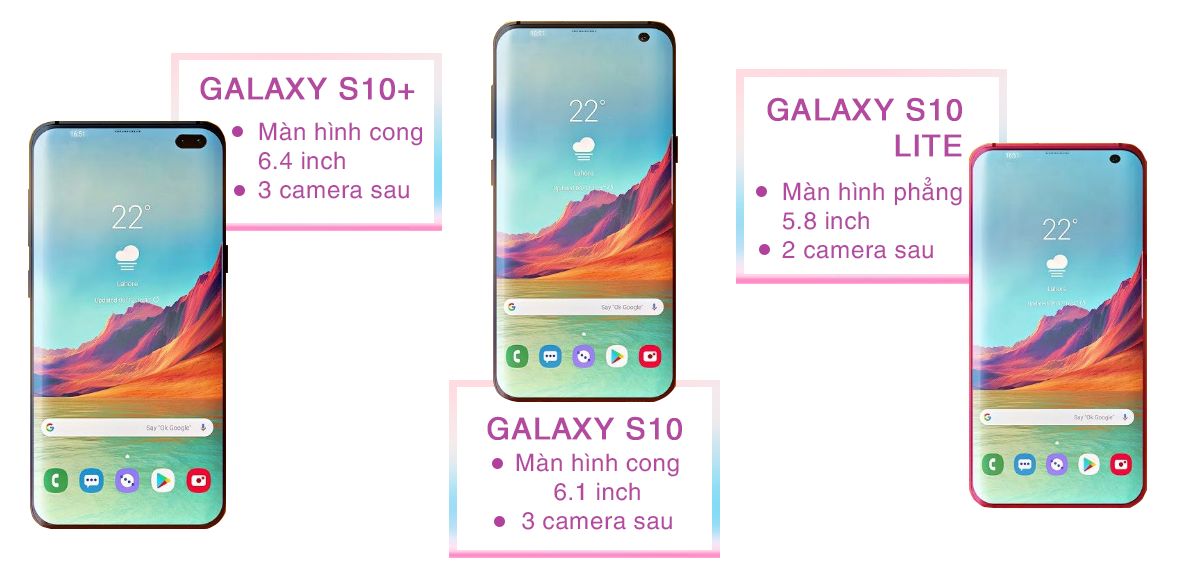
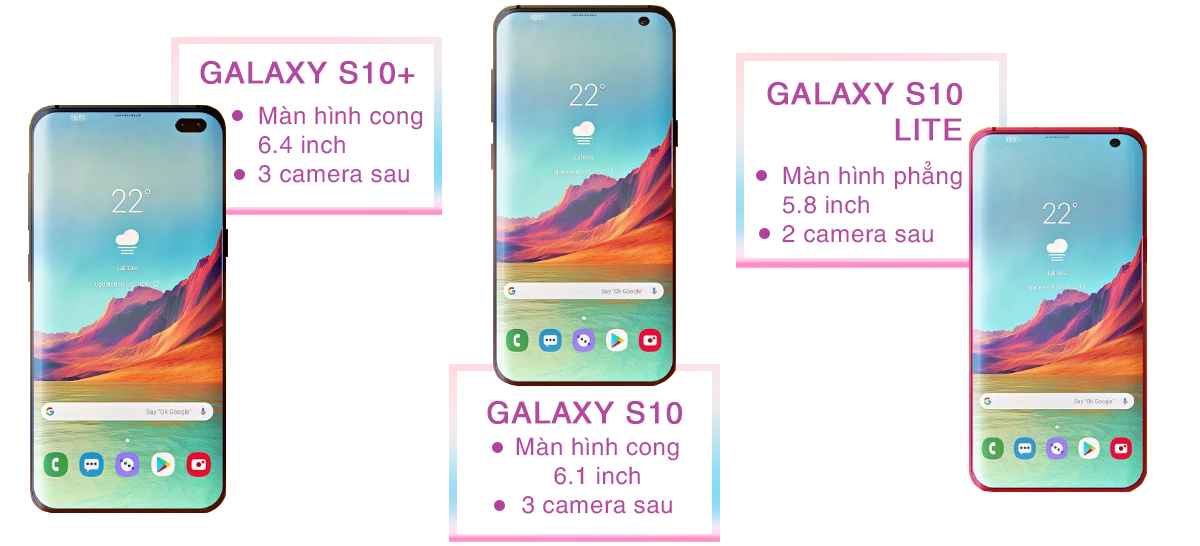
commit 2

diff --git a/DESKTOP/index.html b/DESKTOP/index.html
@@ -48,7 +48,7 @@
 				</div>		
 			</div>
 
-			<p>Nếu thường xem tin tức về Galaxy S10 có lẽ bạn cũng đã biết rằng Samsung sẽ giới thiệu 3 phiên bản là Galaxy S10, Galaxy S10 Plus(Galaxy S10+) và Galaxy S10 Lite (Galaxy S10E) tại sự kiện Unpacked 2019 sắp tới.</p><br>
+			<p>Nếu thường xem tin tức về Galaxy S10 có lẽ bạn cũng đã biết rằng Samsung sẽ giới thiệu 3 phiên bản là Galaxy S10, Galaxy S10 Plus (Galaxy S10+) và Galaxy S10 Lite (Galaxy S10E) tại sự kiện Unpacked 2019 sắp tới.</p><br>
 			<p>Trong đó, Galaxy S10 (được gọi là phiên bản tiêu chuẩn) sẽ có màn hình cong 6.1 inch, bản cao cấp nhất Galaxy S10 Plus cũng có màn hình cong 6.4 ich, riêng sản phẩm giá rẻ hơn Galaxy S10 Lite sẽ có màn hình phẳng 5.8 inch. Điểm chung của chúng là màn hình đều có tỉ lệ 19:9 thay vì 18.5:9 như Galaxy S9.</p>
 		</div>
 	</div>
@@ -57,10 +57,11 @@
 	</div>
 	<div class="block-content">
 		<div class="container">
-			<p>Được biết, cả 3 phiên bản sẽ được giữ lại cổng tai nghe 3.5 mm, cùng chạy hệ điều hành Android 9 Pie khi ra mắt, sử dụng con chip Snapdragon 855 hoặc Exynos 9820 mới nhất (tùy thuộc vào từng thị trường), RAM sẽ đạt từ mức 8 - 12 GB, bộ nhớ lưu trữ là từ 128 - 512 GB mức RAM/ROM cao nhất có thể chỉ xuất hiện trên biến thể "Plus").</p><br>
-			<p>Hiện tại, có rất nhiều nguồn tin cho biết, ngoại trừ Galaxy S10 Lite sở hữu camera kép thì 2 sản phẩm còn lại đều có hệ thống 3 camera ở mặt sau. Trong khi đó ở mặt trước, mẫu Galaxy S10 Plus sẽ có 2 lỗ khoét ở góc bên phải màn hình cho camera selfie còn S10 và S10 Lite chỉ có 1.</p>
+			<p>Được biết, cả 3 phiên bản sẽ được giữ lại cổng tai nghe 3.5 mm, cùng chạy hệ điều hành Android 9 Pie khi ra mắt, sử dụng con chip Snapdragon 855 hoặc Exynos 9820 mới nhất (tùy thuộc vào từng thị trường), RAM sẽ đạt từ mức 8 - 12 GB, bộ nhớ lưu trữ là từ 128 - 512 GB (mức RAM/ROM cao nhất có thể chỉ xuất hiện trên biến thể "Plus").</p>
+
 			<div class="row">
 				<div class="column">
+					<p>Hiện tại, có rất nhiều nguồn tin cho biết, ngoại trừ Galaxy S10 Lite sở hữu camera kép thì 2 sản phẩm còn lại đều có hệ thống 3 camera ở mặt sau. Trong khi đó ở mặt trước, mẫu Galaxy S10 Plus sẽ có 2 lỗ khoét ở góc bên phải màn hình cho camera selfie còn S10 và S10 Lite chỉ có 1.</p><br>
 					<p>Về màu sắc, những rò rỉ mới nhất cho thấy năm nay Samsung sẽ mang khá nhiều phối màu mới cho dòng Galaxy S 2019 như Đen, Xám, Xanh lam, Đỏ, Xanh lục và Vàng,...</p><br>
 					<p>Bên cạnh 3 phiên bản kể trên thì người ta còn tin rằng, Samsung còn một mẫu Galaxy S10 thứ tư - có thể được gọi là Galaxy S10 X với màn hình lớn đến 6.7 inch, tích hợp hệ thống 6 camera ở mặt sau (bao gồm một cảm biến ToF dùng để đo khoảng cách từ máy đến vật thể, phục vụ cho chụp ảnh 3D hoặc tương tác thực tế tăng cường AR) cũng như hỗ trợ mạng 5G.</p>
 				</div>
@@ -80,10 +81,11 @@
 				<div class="column">
 					<p>Cho đến thời điểm này, có khá nhiều tin rò rỉ và tranh cãi xoay quanh hệ thống camera của các mẫu Galaxy S10.</p><br>
 					<p>Có nguồn tin nói rằng, Galaxy S10 Lite có camera kép, Galaxy S10 & S10 Plus cùng có 3 camera trong khi cũng có nguồn tin khẳng định chỉ trừ mẫu cao cấp nhất có 3 camera mặt sau, 2 sản phẩm còn lại đều chỉ có camera kép.</p><br>
-					<p>Với nguồn tin thứ nhất, họ cho biết mẫu S10 & S10 Lite sẽ có hệ thống camera với ống kính siêu rộng 16 MP f/1.9 + ống kính thường 12 MP có khả năng thay đổi khẩu độ.</p>
+					<p>Với nguồn tin thứ nhất, họ cho biết mẫu S10 & S10 Lite sẽ có hệ thống camera với ống kính siêu rộng 16 MP f/1.9 + ống kính thường 12 MP có khả năng thay đổi khẩu độ.</p><br>
+					<p>Trong khi đó nguồn tin thứ 2 khẳng định, camera trên S10 và S10 Plus sẽ là một hệ thống bao gồm cảm biến 12 MP, khẩu độ thay đổi từ f/1.5 - f/2.4 + ống kính góc rộng 123 độ, 16 MP, f/1.9 kết hợp cùng ống kính tele 13MP với khẩu độ f/2.4.</p>
 				</div>
 			</div>
-			<p>Trong khi đó nguồn tin thứ 2 khẳng định, camera trên S10 và S10 Plus sẽ là một hệ thống bao gồm cảm biến 12 MP, khẩu độ thay đổi từ f/1.5 - f/2.4 + ống kính góc rộng 123 độ,16 MP, f/1.9 kết hợp cùng ống kính tele 13MP với khẩu độ f/2.4.</p><br>
+
 			<p>Ở phía trước, nhiều hình ảnh render đều cho chúng ta thấy Galaxy S10 & S10 Lite đều có 1 camera nằm ở phía trên bên phải màn hình còn S10 Plus sẽ có camera kép.</p>
 			<p>Nhìn chung, vấn đề bao nhiêu camera cũng không quan trọng bằng việc tối ưu thuật toán máy ảnh. Hy vọng Samsung sẽ làm tốt khâu này để giúp siêu phẩm 2019 của mình có sức cạnh tranh tốt hơn.</p>
 			<div class="outline">
@@ -102,7 +104,8 @@
 			<div class="row">
 				<div class="column">
 					<p>Tuy nhiên, cũng có nguồn tin nói rằng Galaxy S10 Lite sẽ được trang bị cảm biến vân tay nằm ở nút nguồn chứ không được nhúng trên màn hình như 2 model cao cấp còn lại.</p><br>
-					<p>Và do có thiết kế gần như tràn viền 100%, phải khoét lỗ cho camera  selfie nên người ta tin rằng, Samsung sẽ loại bỏ tính năng quét mống mắt trên cả 3 mẫu Galaxy S10 và thay vào đó là cải tiến khả năng quét khuôn mặt 3D, sao cho nó tốt như đối thủ Apple iPhone.</p>
+					<p>Và do có thiết kế gần như tràn viền 100%, phải khoét lỗ cho camera  selfie nên người ta tin rằng, Samsung sẽ loại bỏ tính năng quét mống mắt trên cả 3 mẫu Galaxy S10 và thay vào đó là cải tiến khả năng quét khuôn mặt 3D, sao cho nó tốt như đối thủ Apple iPhone.</p><br>
+					<p>Bên cạnh đó, nhiều nguồn tin cũng khẳng định Samsung sẽ tích hợp công nghệ phát âm thanh thông qua màn hình (Sound on Display, kiêm cả 2 nhiệm vụ loa ngoài và loa đàm thoại) dành cho cả 3 model mới nhất.</p>
 				</div>
 				<div class="column">
 
@@ -110,13 +113,13 @@
 
 				</div>
 			</div>
-			<p>Bên cạnh đó, nhiều nguồn tin cũng khẳng định Samsung sẽ tích hợp công nghệ phát âm thanh thông qua màn hình (Sound on Display, kiêm cả 2 nhiệm vụ loa ngoài và loa đàm thoại) dành cho cả 3 model mới nhất.</p>
+
 			<div class="outline">
 				<div data-aos="fade-right" ata-aos-easing="linear" data-aos-delay="100">
 					<img src="images/outline05.png">	
 				</div>		
 			</div>
-			<p>Có một điều chắc chắn là Galaxy S10 sẽ được giới thiệu vào ngày 20/2, trước khi triển lãm di động toàn cầu MWC 2019 khai mạc. Và sau đó, thiết bị rất có thể được lên kệ vào ngày 8/3 tại Hàn Quốc, Ý và nhiều nước khác. Như vậy có thể xem đây là lên kệ toàn cầu của Galaxy S10.</p><br>
+			<p>Có một điều chắc chắn là Galaxy S10 sẽ được giới thiệu vào ngày 20/2, trước khi triển lãm di động toàn cầu MWC 2019 khai mạc. Và sau đó, thiết bị rất có thể được lên kệ vào ngày 8/3 tại Hàn Quốc, Ý và nhiều nước khác. Như vậy có thể xem đây là thời điểm lên kệ toàn cầu của Galaxy S10</p><br>
 			<p>Tuy nhiên, các nguồn tin cũng lưu ý: Đây chỉ là ngày bán ra của 3 mẫu Galaxy S10, Galaxy S10 Plus và Galaxy S10 Lite còn nếu bạn muốn mua chiếc S10 hỗ trợ mạng 5G - có thể được gọi là Galaxy S10 X thì phải chờ đến ngày 29/3.</p>
 			<div class="img-content">
 				<img src="images/img07.png">

diff --git a/DESKTOP/css/style.css b/DESKTOP/css/style.css
@@ -91,6 +91,7 @@ p{
 }
 .img-notfull{
     margin-top: 20px;
+    margin-bottom: 20px;
 }
 .outline img, .img-notfull img{
     display: block;
@@ -106,6 +107,7 @@ p{
 }
 .full_screen{
     width: 100%;
+    margin: 20px 0;
 }
 .block-first{
     margin-top: 40px;
